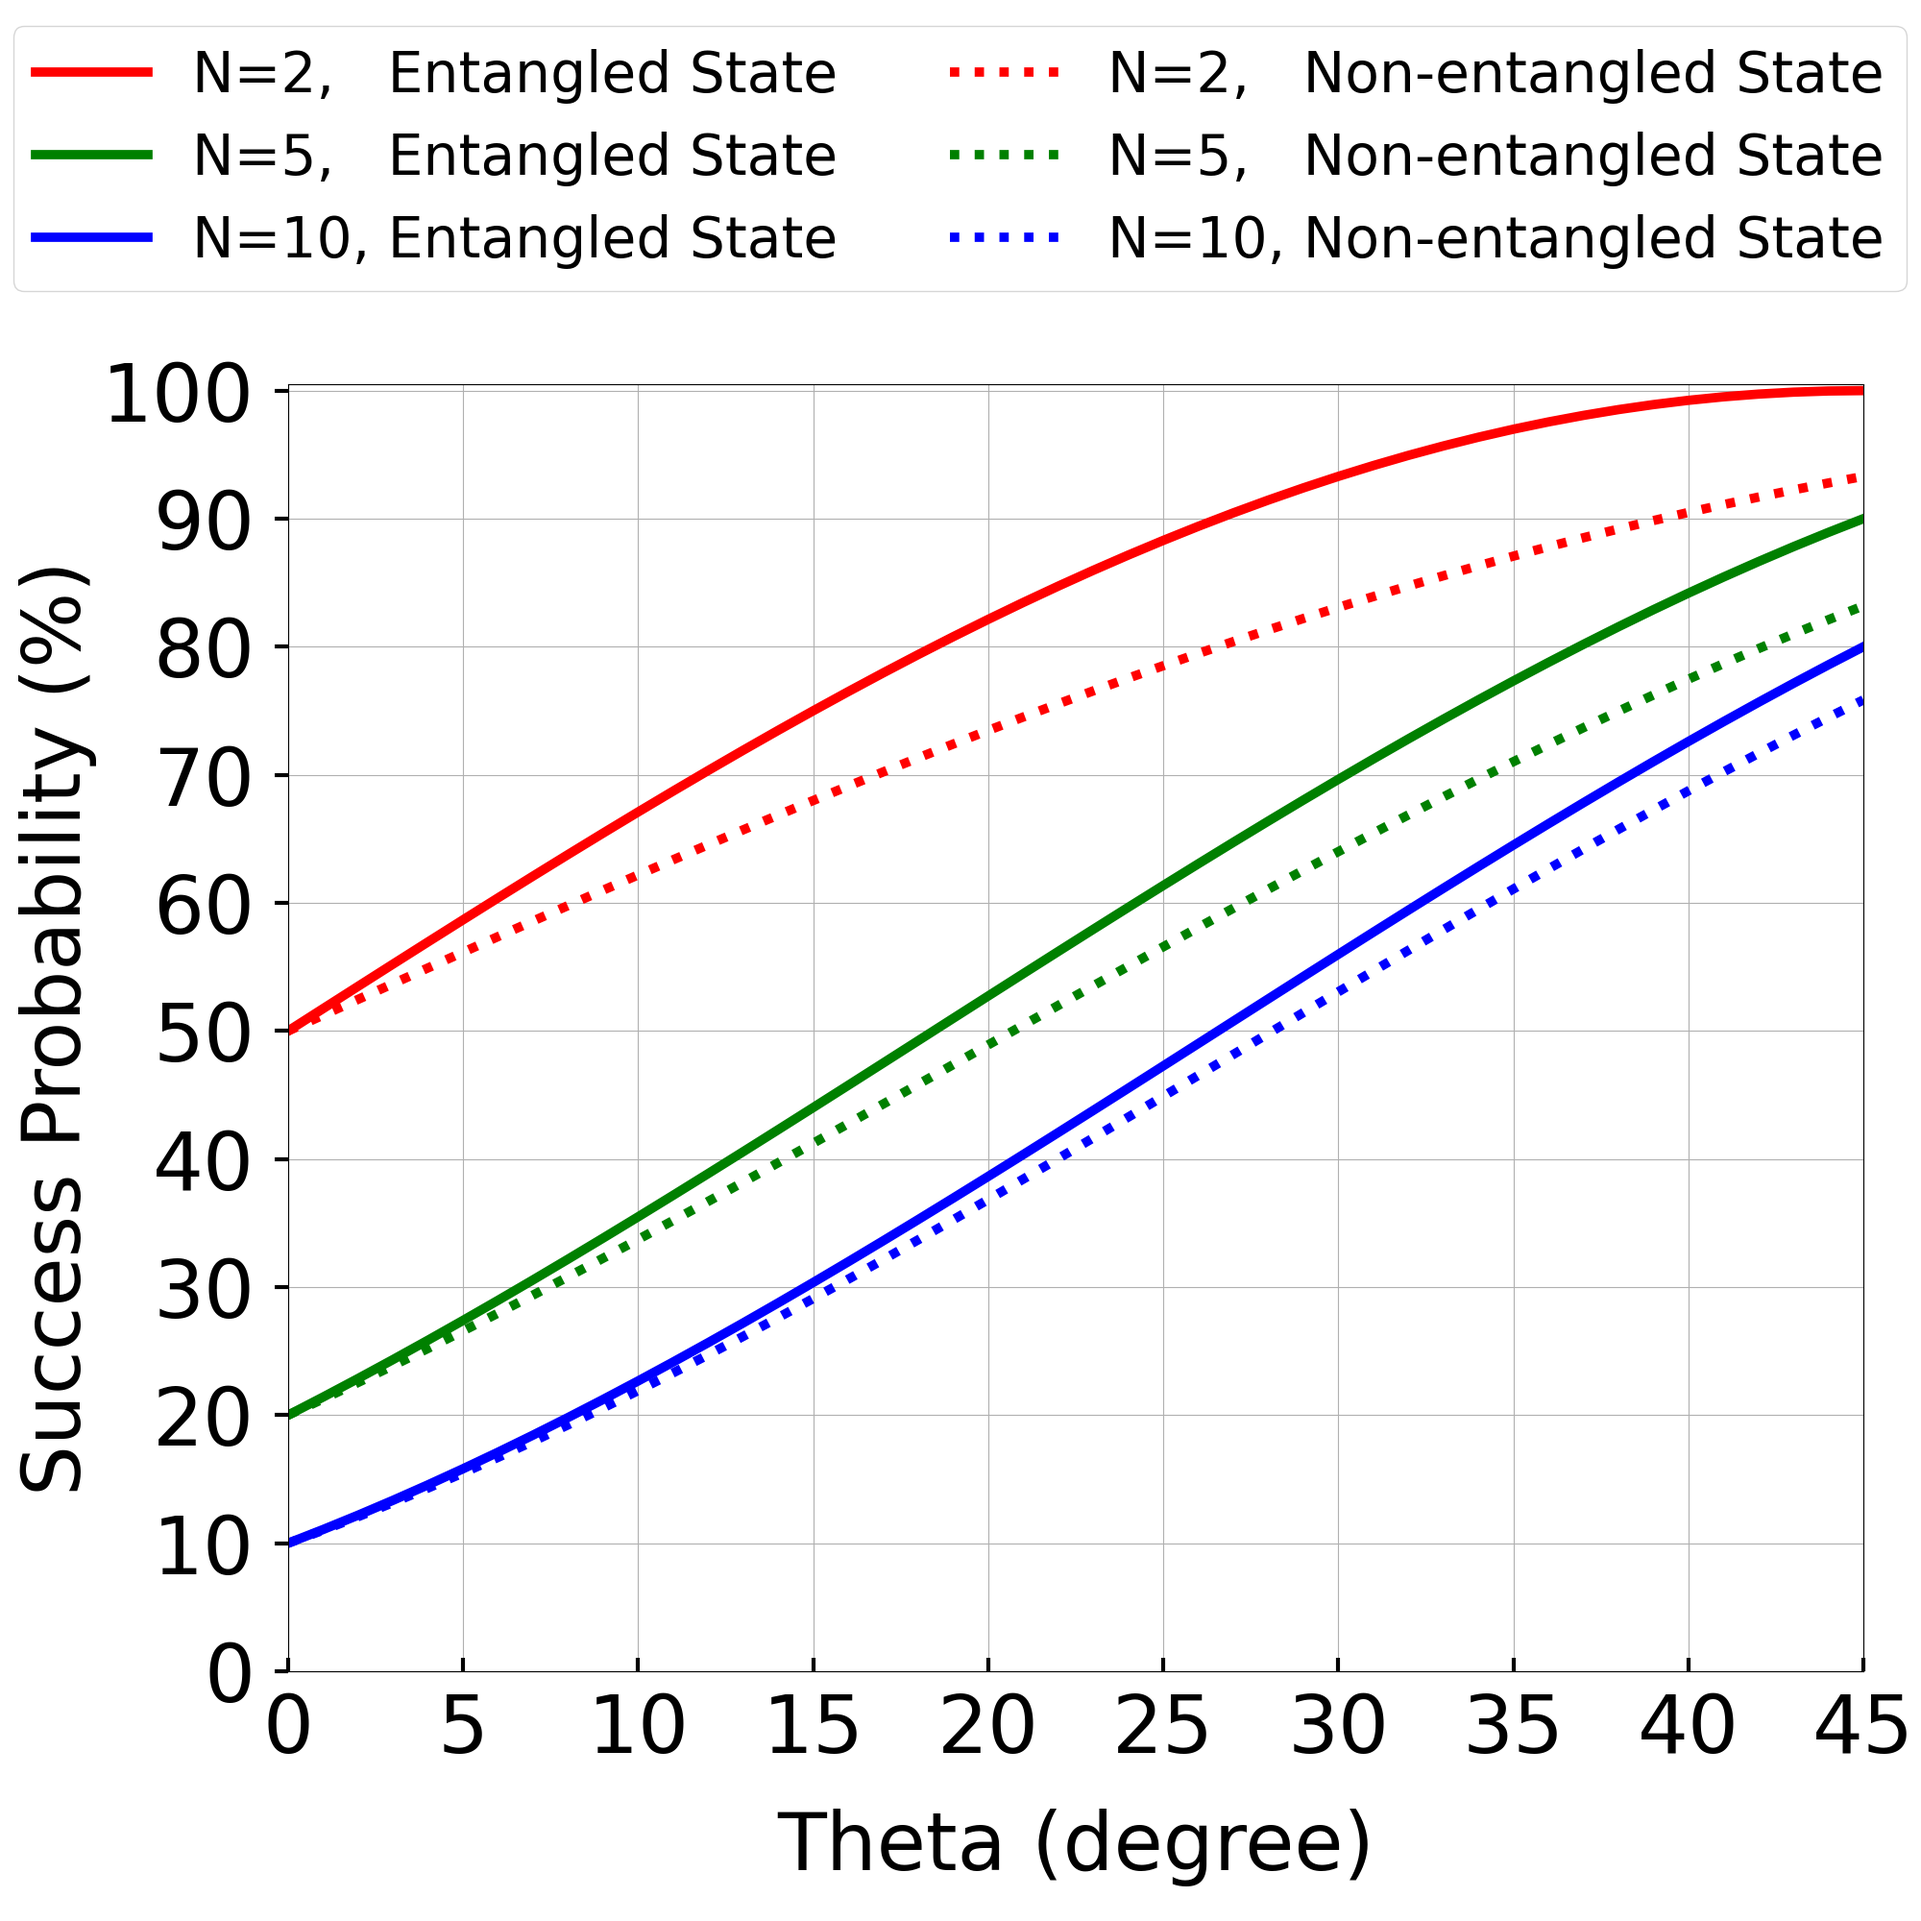
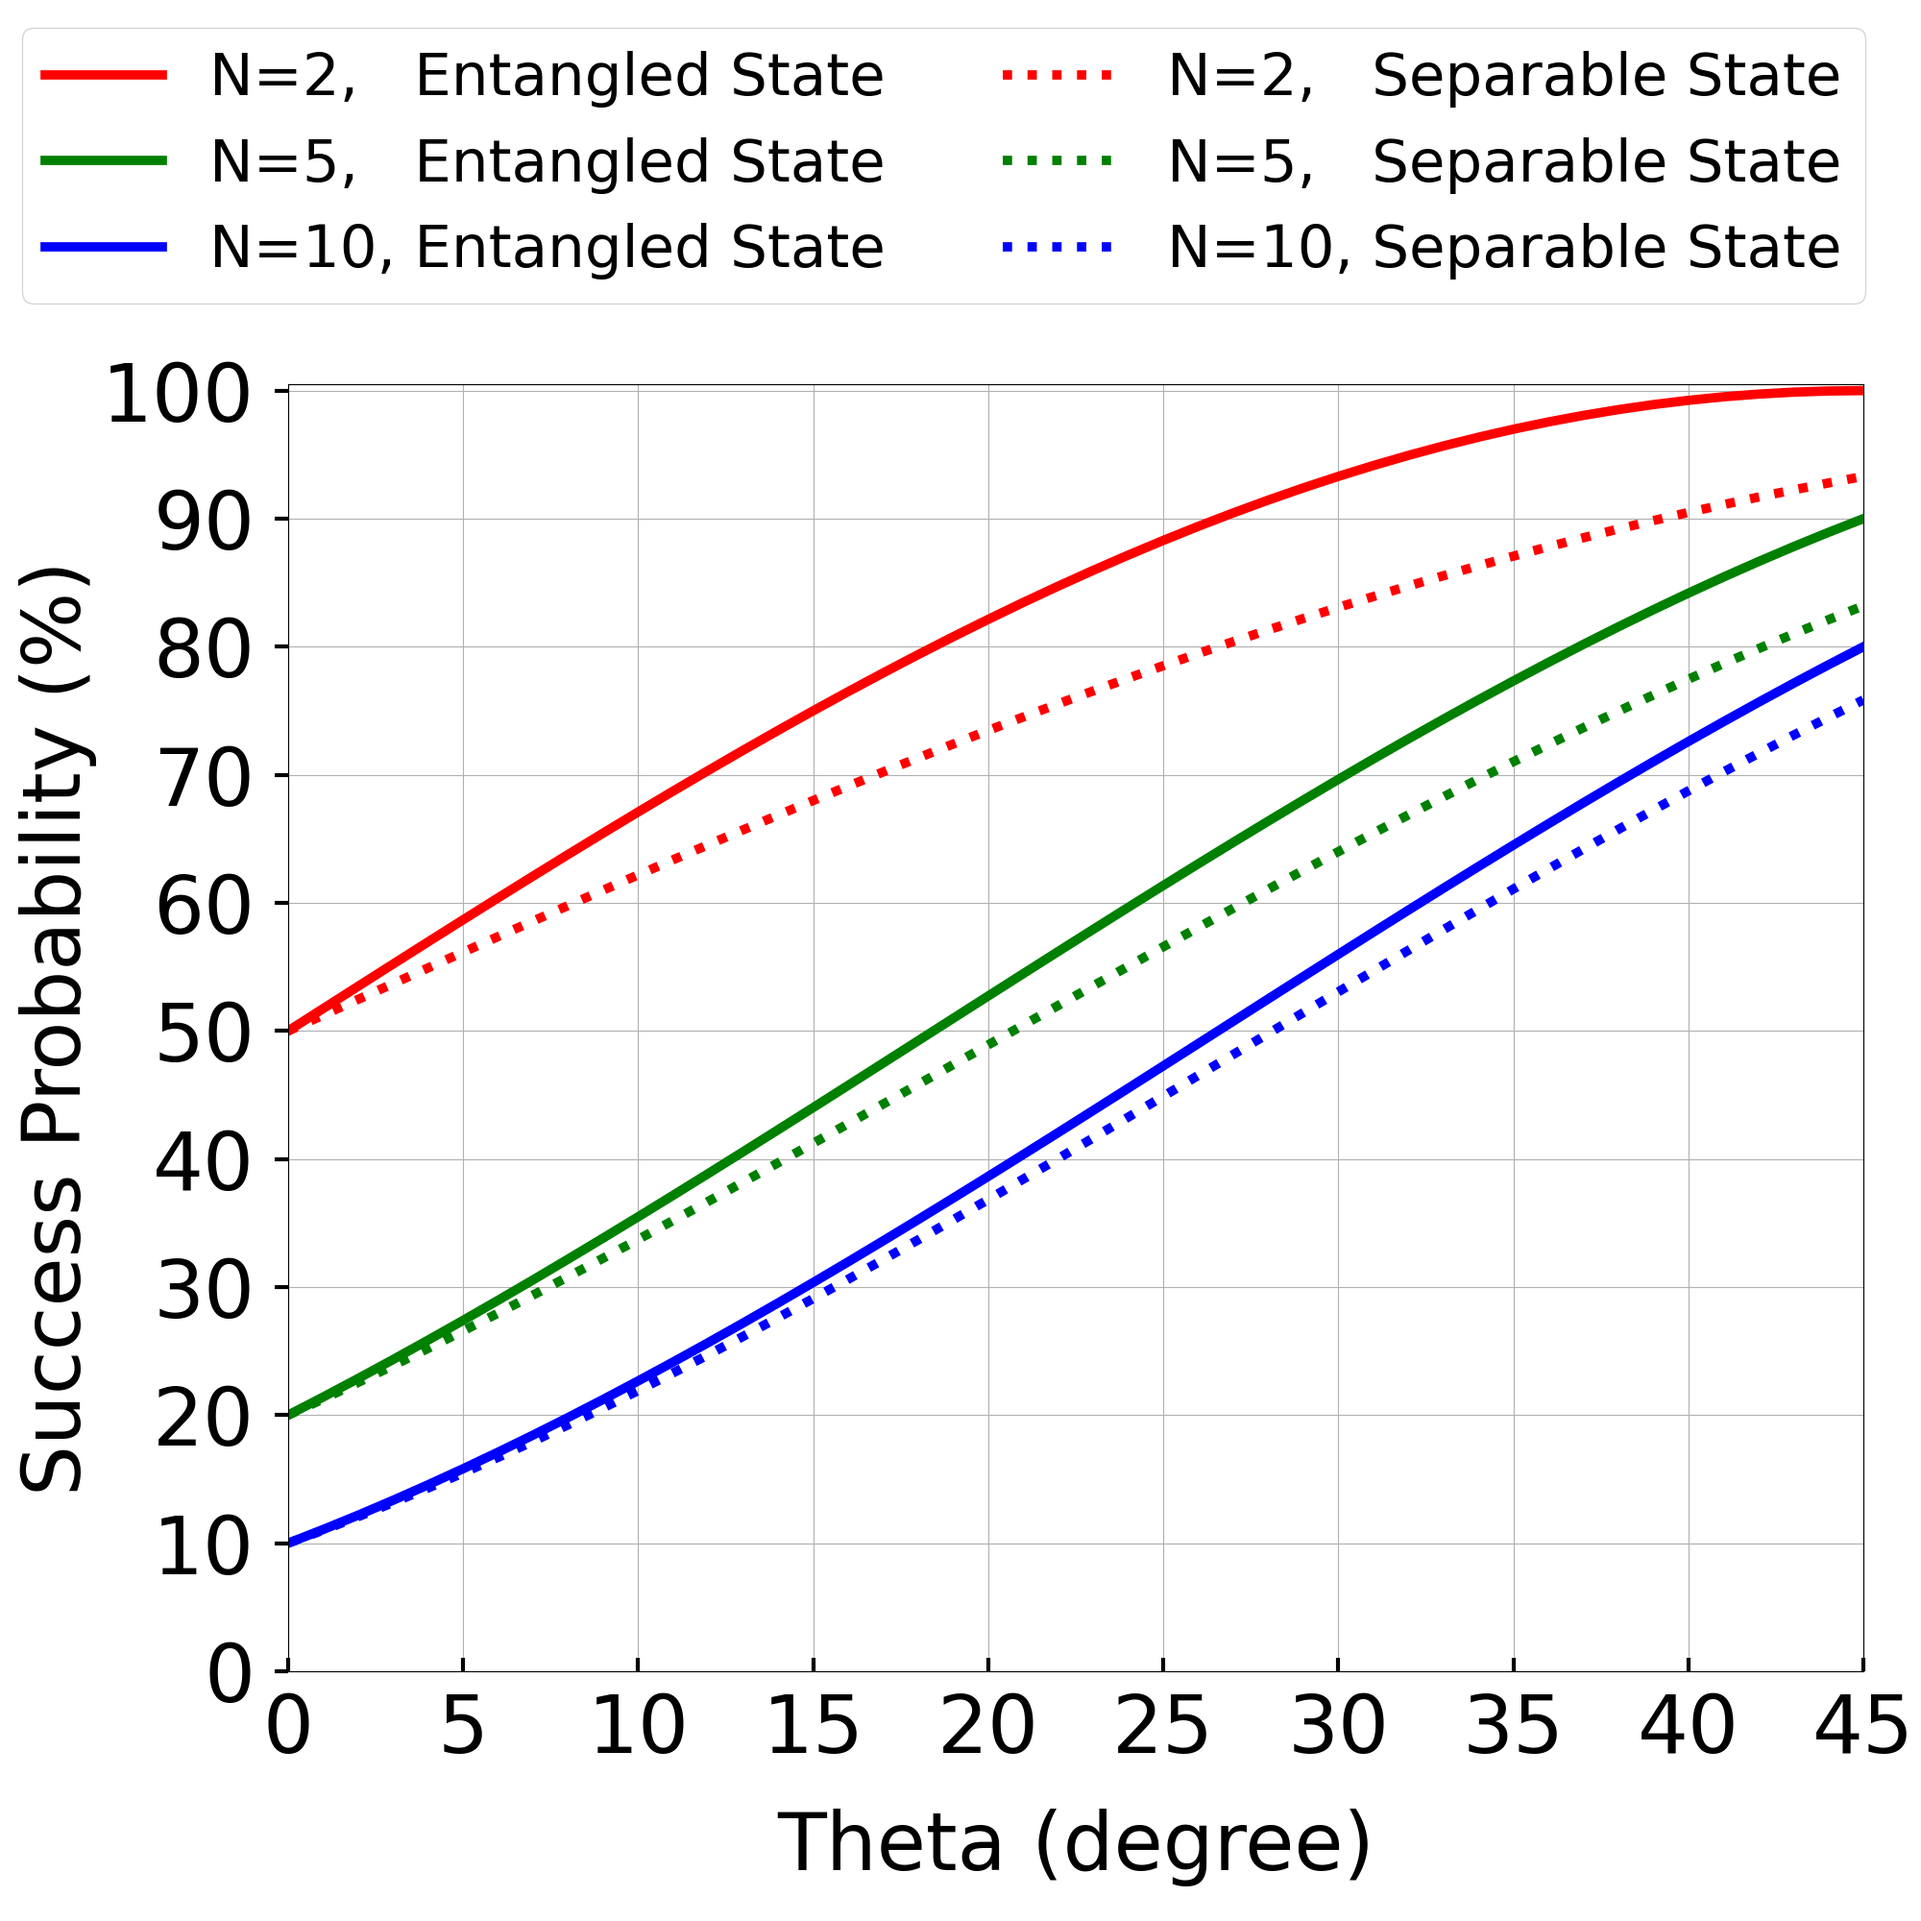
update plot

Changed region(s): [[0.0, 0.031, 0.465, 0.155], [0.558, 0.031, 0.992, 0.155]]

diff --git a/plot.py b/plot.py
@@ -954,11 +954,11 @@ def pra():
     ax.plot(X, N_2_dicke,  color='r', linestyle='-',  label='N=2,   Entangled State')
     ax.plot(X, N_5_dicke,  color='g', linestyle='-',  label='N=5,   Entangled State')
     ax.plot(X, N_10_dicke, color='b', linestyle='-',  label='N=10, Entangled State')
-    ax.plot(X, N_2_sep,    color='r', linestyle=':',  label='N=2,   Non-entangled State')
-    ax.plot(X, N_5_sep,    color='g', linestyle=':',  label='N=5,   Non-entangled State')
-    ax.plot(X, N_10_sep,   color='b', linestyle=':',  label='N=10, Non-entangled State')
+    ax.plot(X, N_2_sep,    color='r', linestyle=':',  label='N=2,   Separable State')
+    ax.plot(X, N_5_sep,    color='g', linestyle=':',  label='N=5,   Separable State')
+    ax.plot(X, N_10_sep,   color='b', linestyle=':',  label='N=10, Separable State')
     ax.grid()
-    ax.legend(fontsize=42, bbox_to_anchor=(1.045, 1.3), ncol=2)
+    ax.legend(fontsize=44, bbox_to_anchor=(1.02, 1.3), ncol=2)
     xticks = [i for i in range(0, 46, 5)]
     ax.set_xticks(xticks)
     ax.set_xticklabels([f'{x}' for x in xticks])
